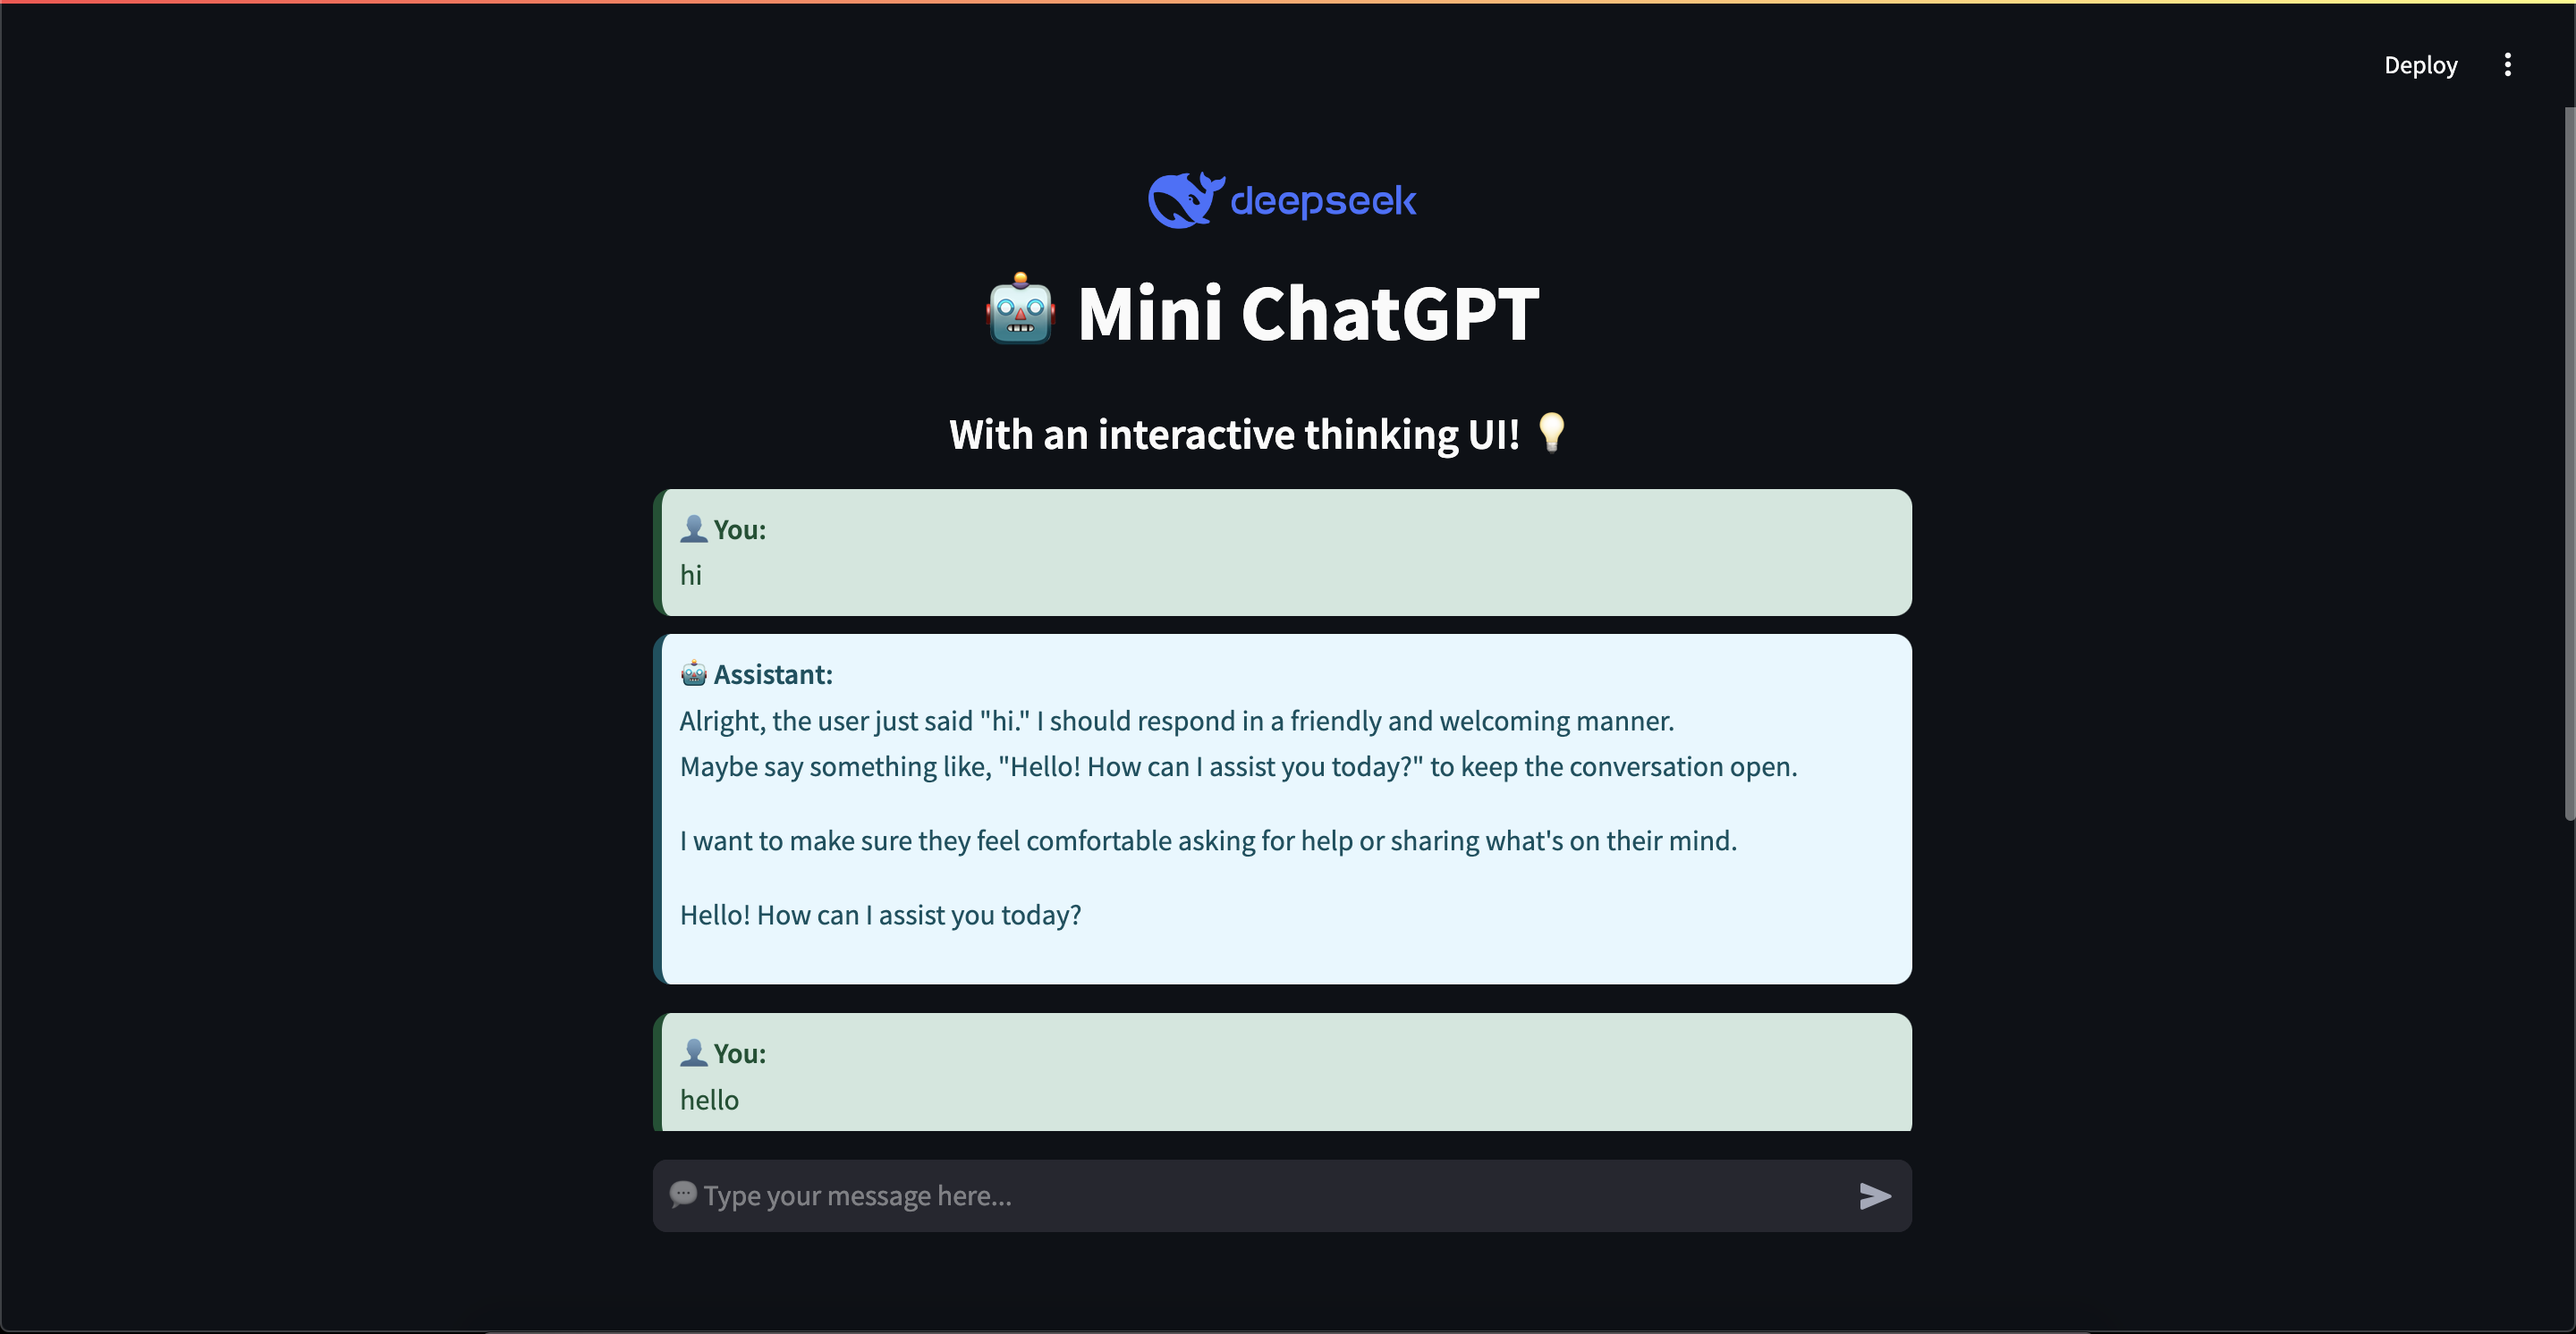
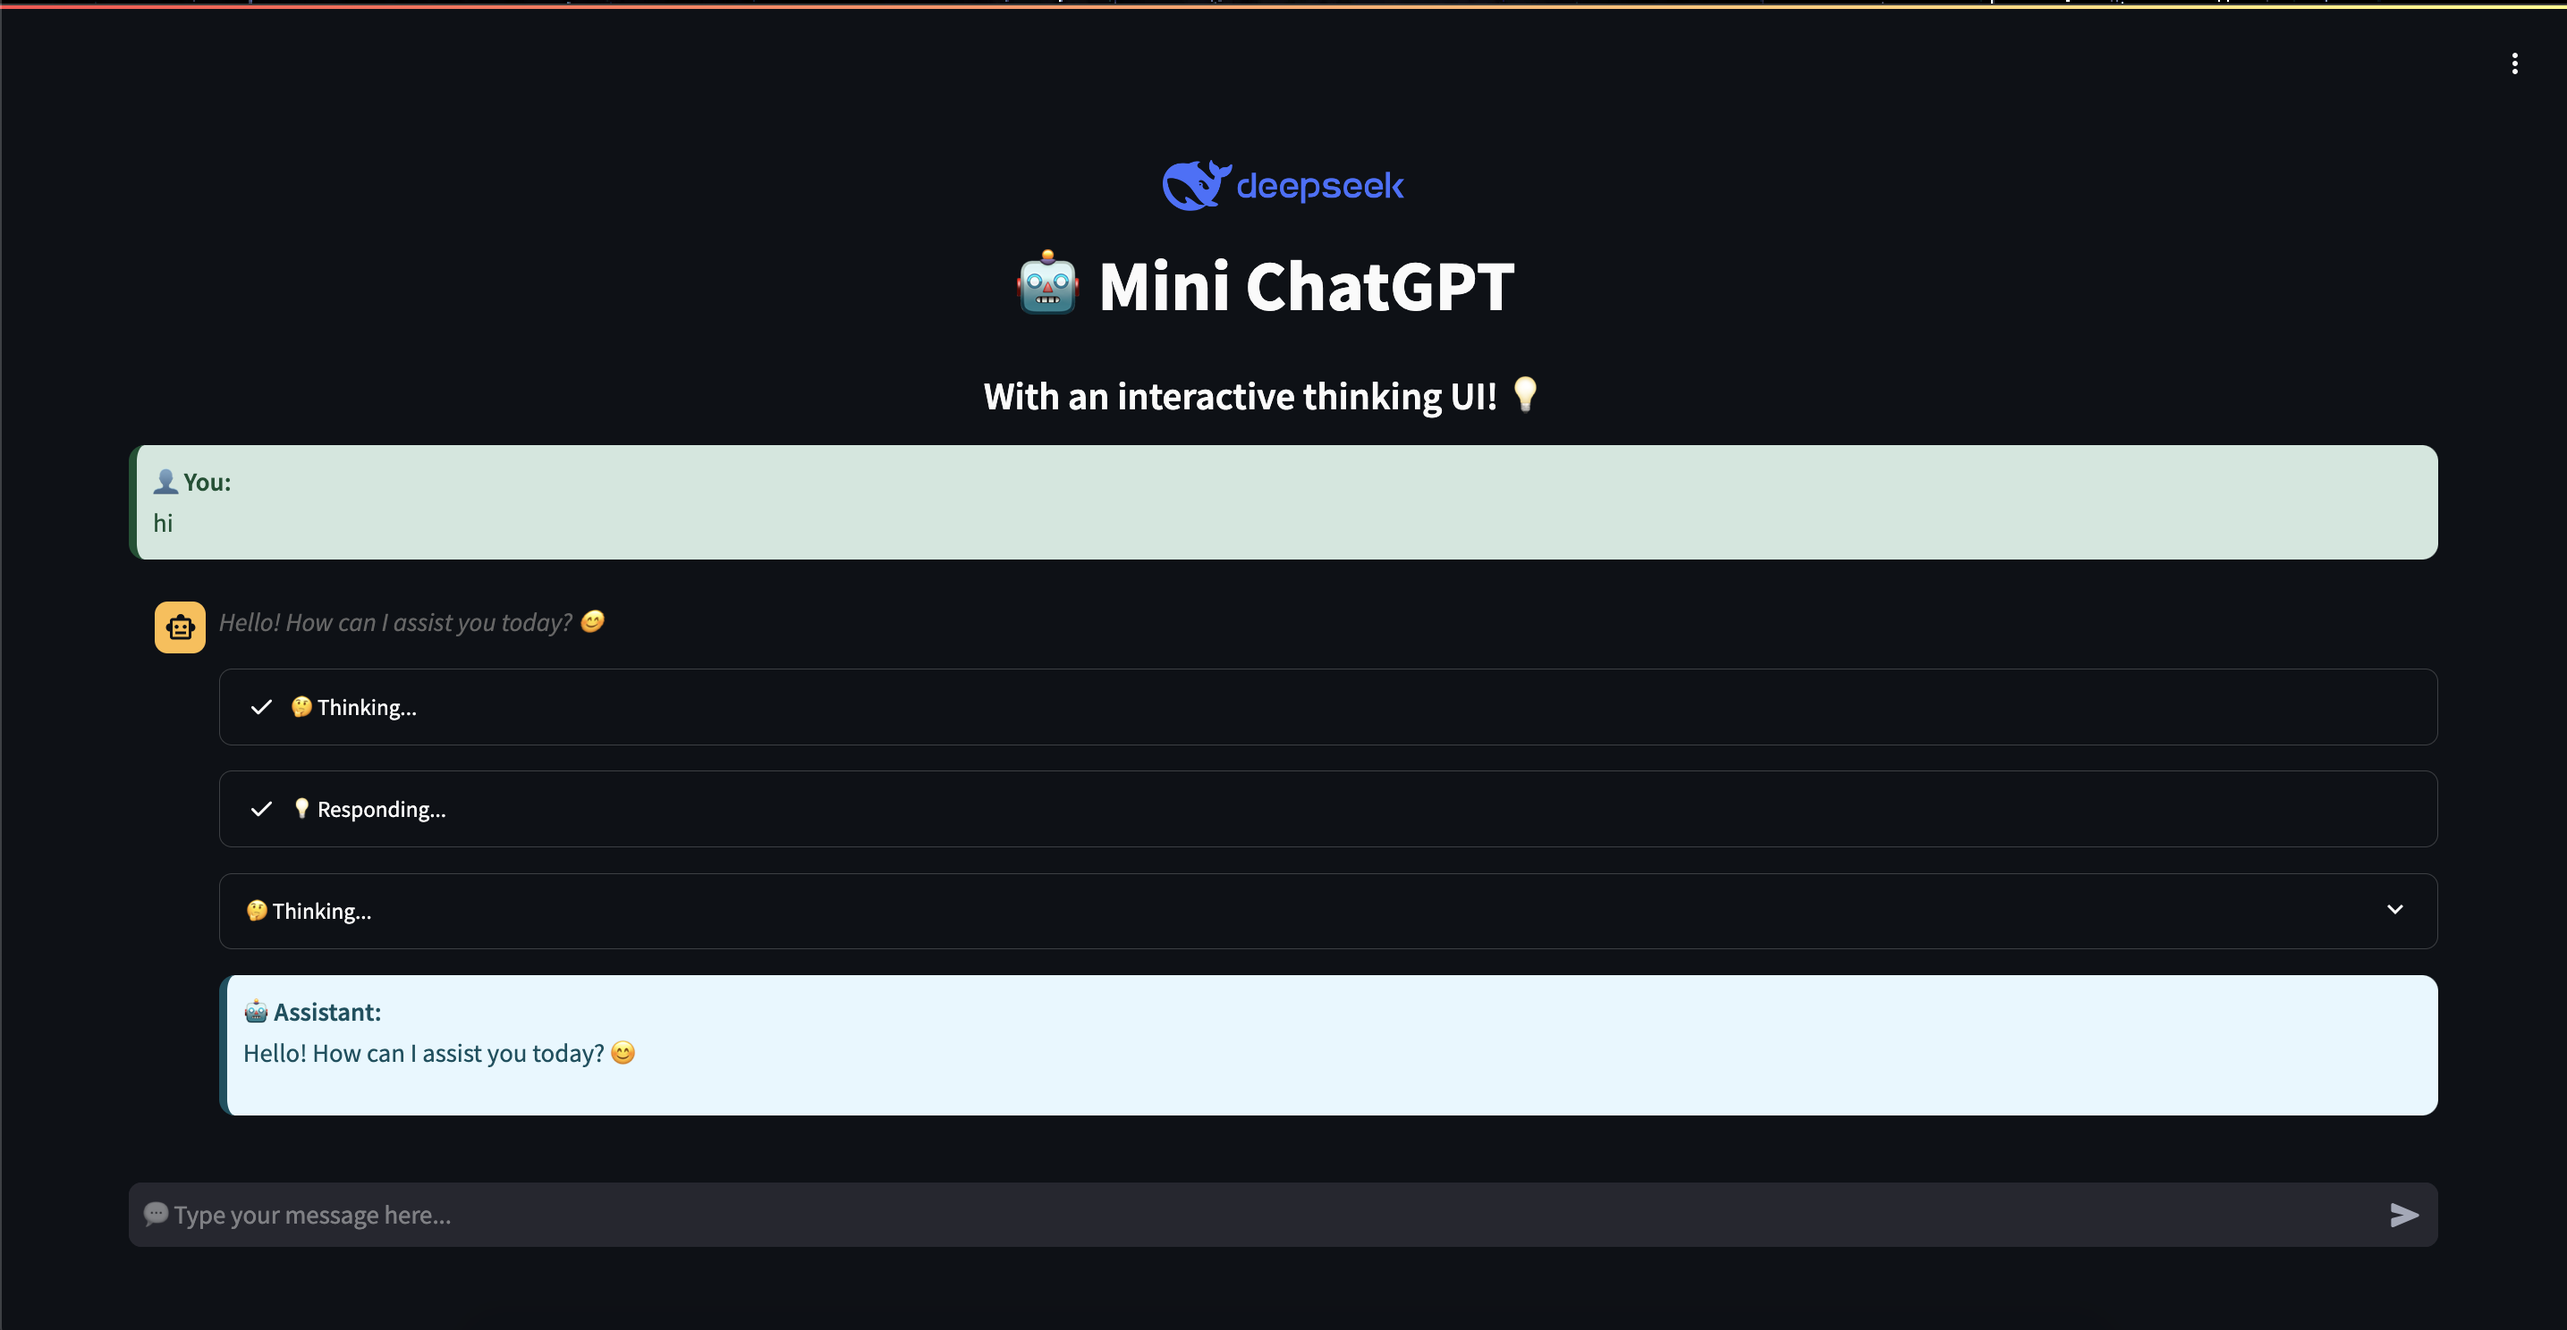
fix: handle empty session file

diff --git a/sessions.py b/sessions.py
@@ -1,9 +1,8 @@
 import os
 import json
 import streamlit as st
+from const import CHAT_HISTORY_FILE, DEFAULT_MESSAGE
 from utils import save_chat_history, load_chat_history
-
-CHAT_HISTORY_FILE = "chat_history.json"
 
 def initialize_session():
     """Initializes session state and loads chat history."""
@@ -16,8 +15,13 @@ def save_chat_history():
         json.dump(st.session_state["messages"], file)
 
 def load_chat_history():
-    """Loads chat history from a file if available."""
+    """Loads chat history from a file, handling empty or corrupt files."""
     if os.path.exists(CHAT_HISTORY_FILE):
-        with open(CHAT_HISTORY_FILE, "r") as file:
-            return json.load(file)
-    return [{"role": "system", "content": "You are a helpful assistant."}]
+        try:
+            with open(CHAT_HISTORY_FILE, "r") as file:
+                history = json.load(file)
+                return history if history else DEFAULT_MESSAGE
+        except (json.JSONDecodeError, ValueError):
+            pass  # If the file is corrupt, fallback to default
+
+    return DEFAULT_MESSAGE

diff --git a/app.py b/app.py
@@ -2,6 +2,8 @@ import streamlit as st
 from ui import render_ui, render_chat_interface
 from sessions import initialize_session
 
+st.set_page_config(page_title="Chat DeepSeek R1", layout="wide")
+
 def main():
     initialize_session()
     render_ui()

diff --git a/const.py b/const.py
@@ -1,0 +1,2 @@
+CHAT_HISTORY_FILE = "chat_history.json"
+DEFAULT_MESSAGE = [{"role": "system", "content": "You are a helpful assistant."}]
